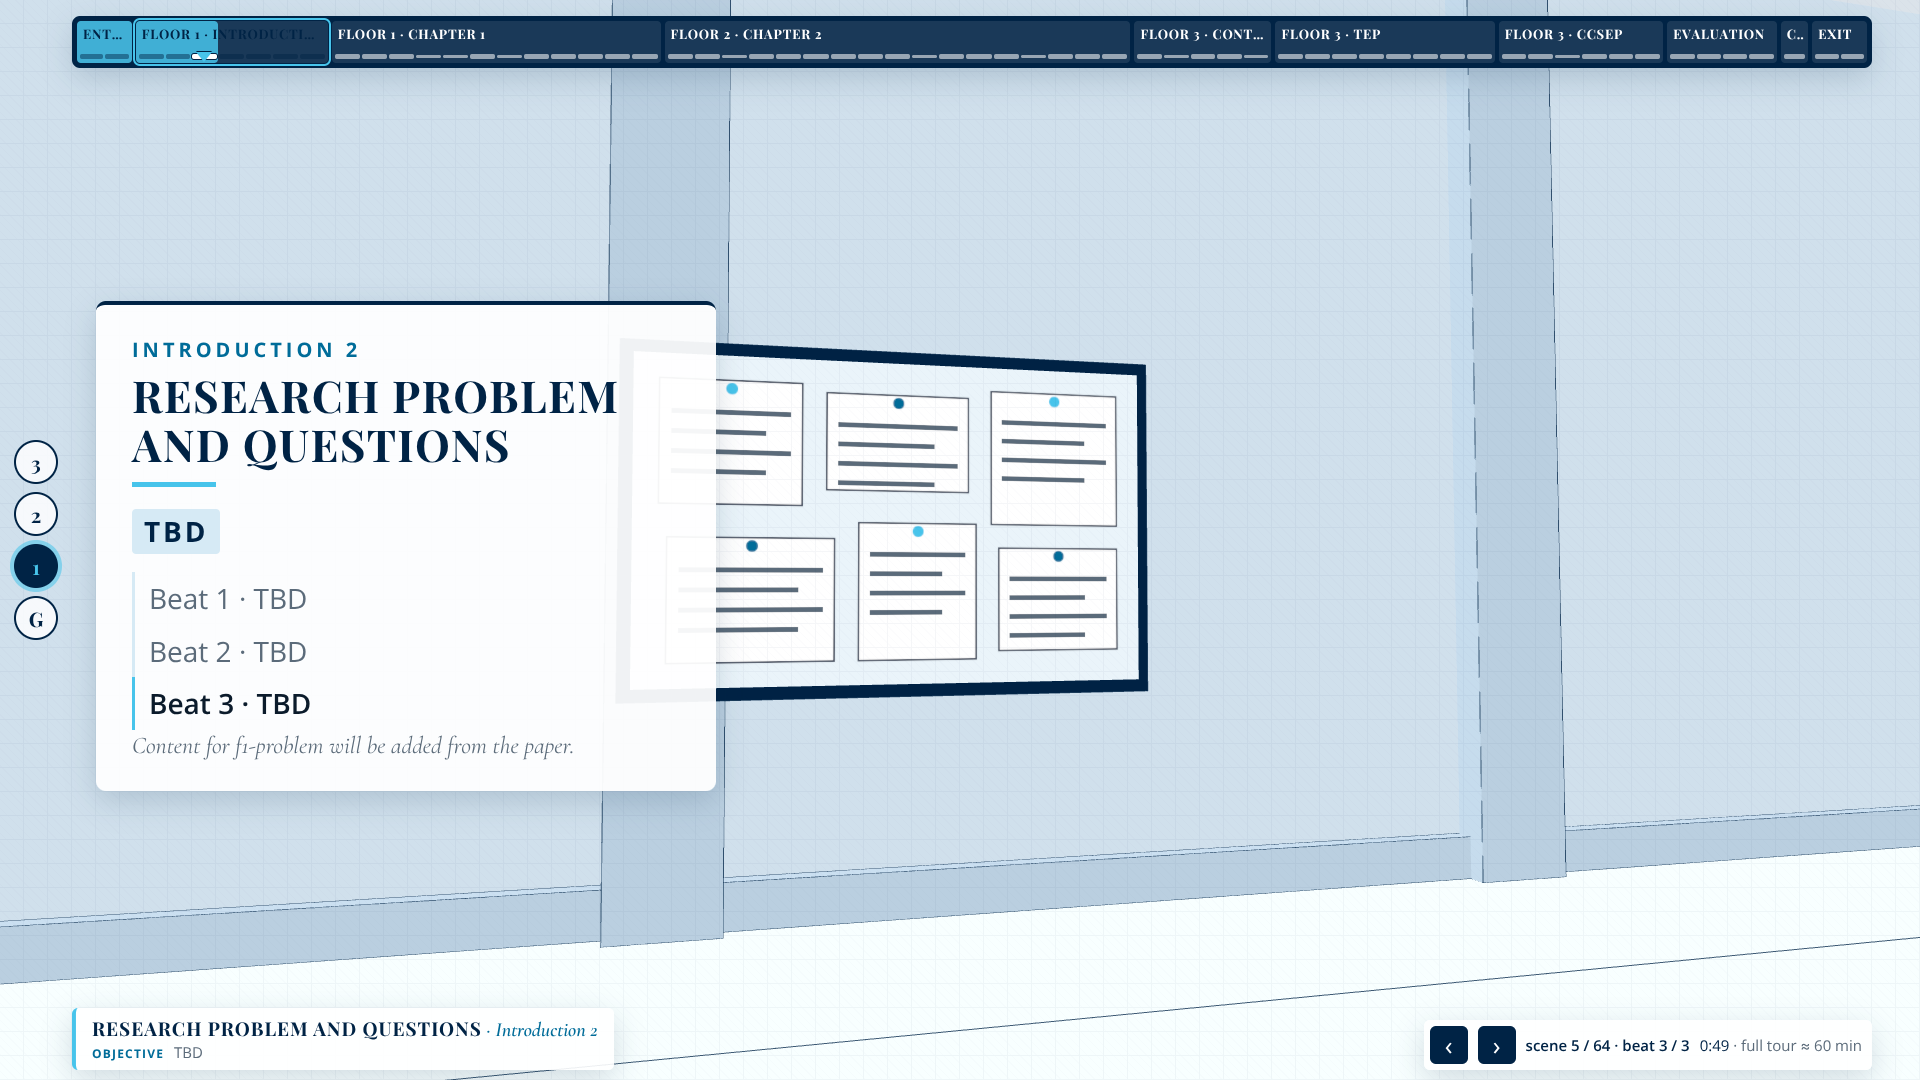
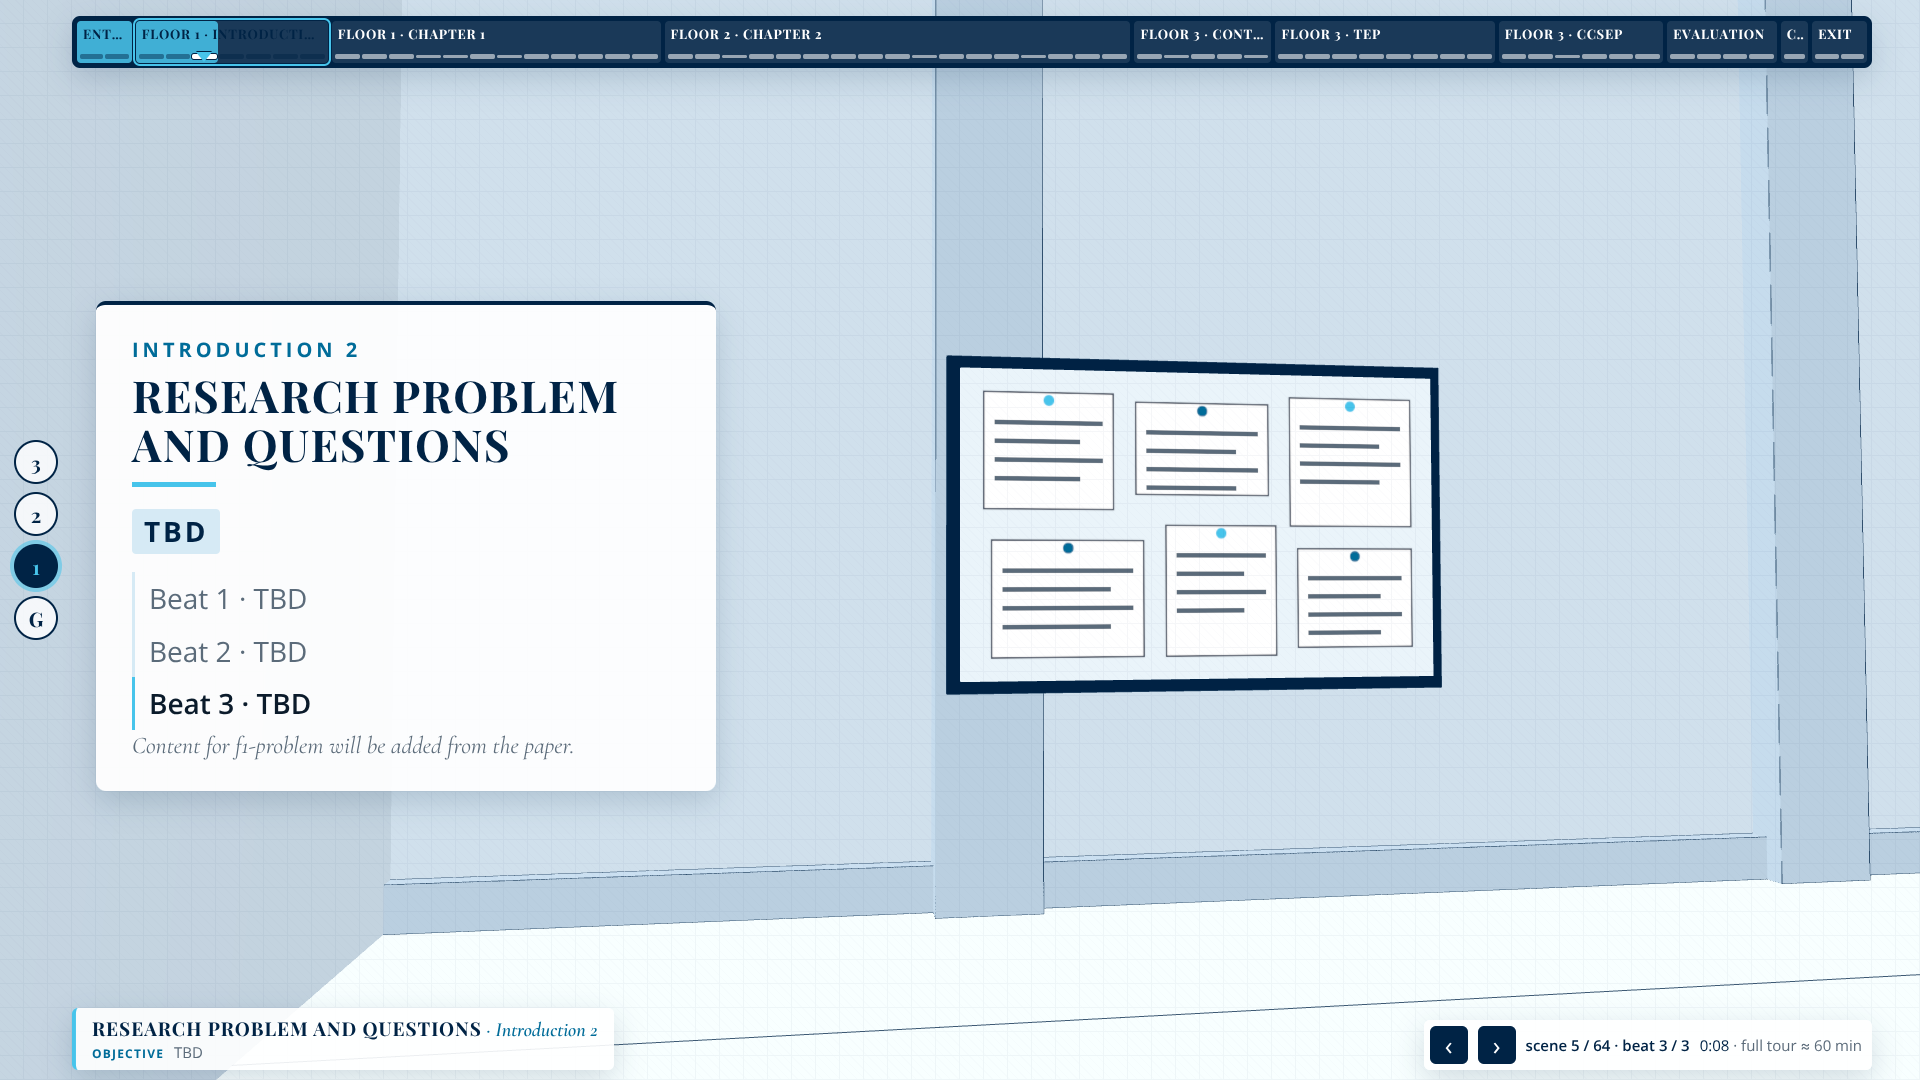
Phase 6: screenshot review fixes (camera framing, stamp table placement), final screens
Claude-Session: https://claude.ai/code/session_01644THZssb1bun3dxWwWVc3

diff --git a/ibrd-bank-tour/src/camera/waypoints.ts b/ibrd-bank-tour/src/camera/waypoints.ts
@@ -32,7 +32,7 @@ export const WAYPOINTS: Record<string, Waypoint> = {
 
   // ---------------- floor 1 · lobby (introduction) ----------------
   'f1-rationale-1': { pos: [1.2, 2.0, -1.8], target: [5.5, 1.5, -6.4] },
-  'f1-rationale-2': { pos: [5.6, 2.4, -11.2], target: [12.7, 3.0, -8.2] },
+  'f1-rationale-2': { pos: [5.6, 2.4, -11.2], target: [12.7, 3.0, -10.6] },
   'f1-problem': { pos: [-5.4, 2.2, -3.4], target: [-12.7, 2.4, -4.4] },
   'f1-objectives': { pos: [-1.4, 2.3, -4.4], target: [-5.0, 1.2, -11.0] },
   'f1-method': { pos: [-7.4, 2.0, -2.2], target: [-12.7, 2.3, -6.2] },
@@ -47,7 +47,7 @@ export const WAYPOINTS: Record<string, Waypoint> = {
   'f1-history-2': { pos: [7.0, 2.0, -33.0], target: [12.5, 2.2, -26.0] },
   'f1-gov': { pos: [-2.6, 3.0, -46.0], target: [-6.5, 2.0, -53.0] },
   'f1-voting': { pos: [-4.0, 2.6, -39.4], target: [-9.8, 0.9, -41.4] },
-  'f1-funds': { pos: [4.4, 2.4, -47.4], target: [10.8, 1.5, -46.4] },
+  'f1-funds': { pos: [4.4, 3.4, -47.4], target: [11.2, 1.7, -46.4] },
   'f1-instruments': { pos: [-1.0, 2.4, -29.0], target: [-10.4, 1.7, -28.6], fov: 55 },
   'f1-terms': { pos: [4.0, 2.0, -31.4], target: [8.0, 0.9, -36.5] },
   'f1-safeguards': { pos: [-4.2, 2.2, -42.8], target: [-9.8, 0.9, -40.6] },
@@ -82,7 +82,7 @@ export const WAYPOINTS: Record<string, Waypoint> = {
   // ---------------- floor 3 · TEP (left half) ----------------
   'f3-tep-overview': { pos: [-1.0, 23.6, -46.5], target: [-7.0, 21.5, -32.0], fov: 55 },
   'f3-tep-cost': { pos: [-0.4, 22.1, -38.4], target: [-4.0, 20.6, -42.0] },
-  'f3-tep-financing': { pos: [-2.4, 22.3, -46.4], target: [-6.5, 20.8, -41.0] },
+  'f3-tep-financing': { pos: [-0.5, 22.6, -47.5], target: [-5.0, 20.8, -41.5] },
   'f3-tep-impl': { pos: [-0.4, 22.1, -31.6], target: [-4.2, 21.0, -27.5] },
   'f3-tep-outputs': { pos: [1.5, 22.6, -31.5], target: [-2.0, 21.2, -38.5] },
   'f3-tep-outcomes': { pos: [-1.0, 22.5, -32.0], target: [-8.0, 23.0, -25.0] },
@@ -95,7 +95,7 @@ export const WAYPOINTS: Record<string, Waypoint> = {
   'f3-ccsep-cities': { pos: [4.0, 23.0, -30.0], target: [12.6, 23.2, -30.0] },
   'f3-ccsep-impl': { pos: [5.0, 22.4, -38.2], target: [10.0, 20.8, -33.5] },
   'f3-ccsep-results': { pos: [2.0, 22.5, -30.2], target: [6.0, 20.9, -25.0] },
-  'f3-ccsep-nhatrang': { pos: [9.0, 22.2, -29.4], target: [12.6, 21.9, -28.8] },
+  'f3-ccsep-nhatrang': { pos: [7.6, 22.4, -31.6], target: [12.6, 22.0, -28.6] },
 
   // ---------------- floor 3 · executive office (evaluation) ----------------
   'f3-eval-achievements': { pos: [0, 22.8, -16.6], target: [0, 21.0, -6.0], fov: 55 },
